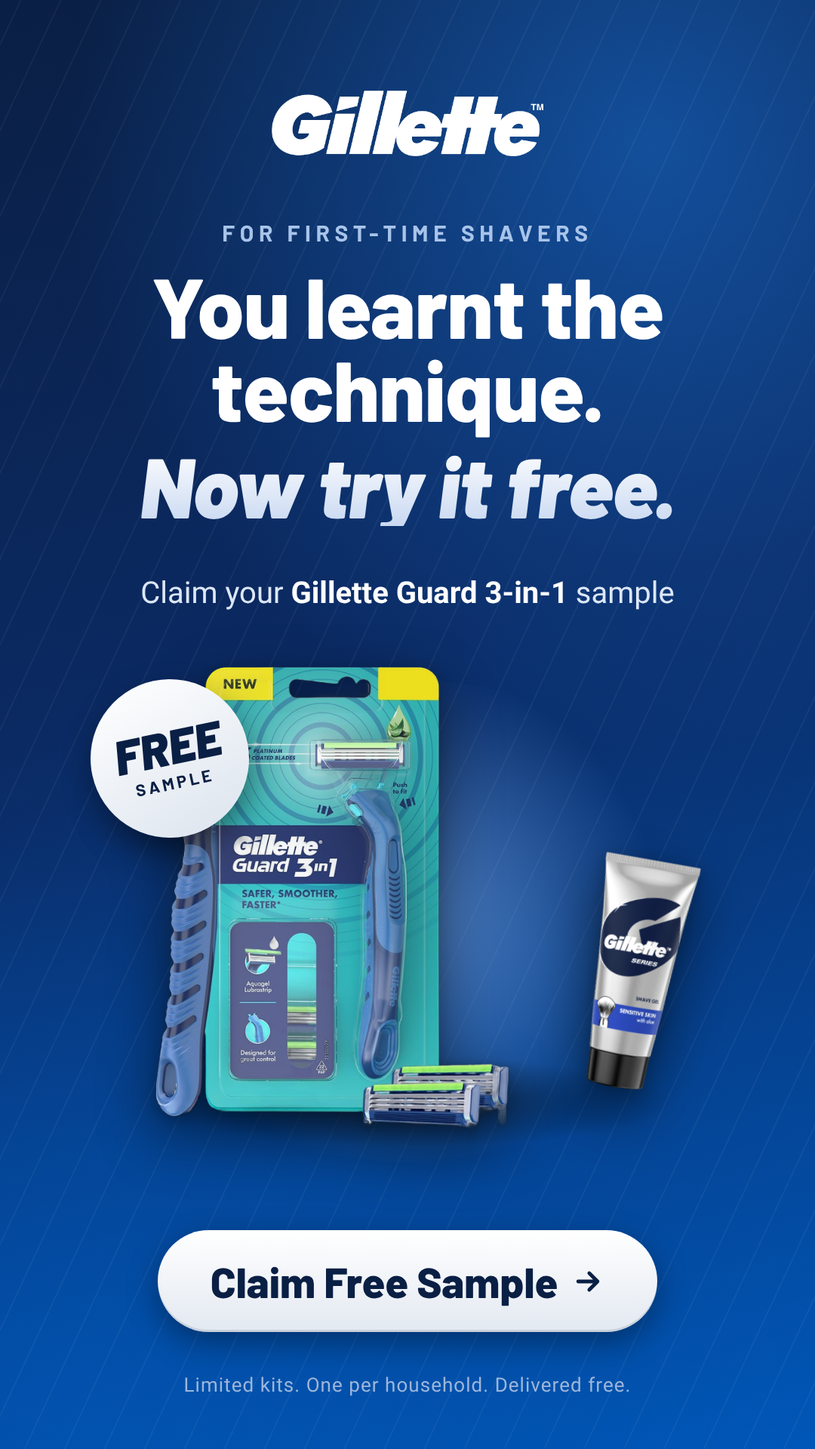
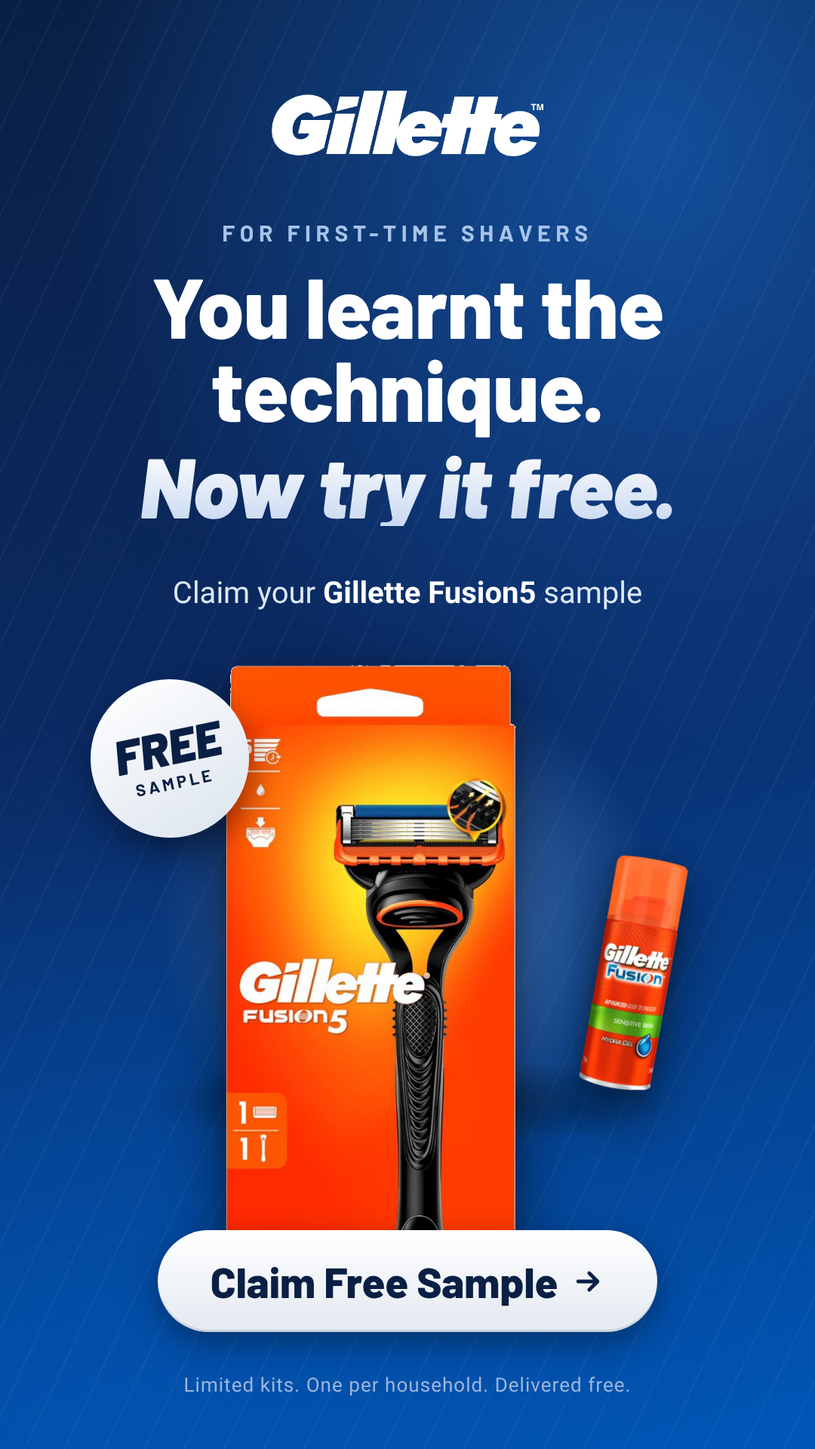
Customise for Gillette Fusion5 (shave only); drop media cost; sharper headline
- Product swapped from Guard 3-in-1 to Fusion5: new pack, razor, refill
  and Fusion Hydra Gel images; sample kit, ads, landing hero, UGC
  stickers, OG image and unboxing re-rendered; all copy, WhatsApp
  messages, scoring and dashboard labels updated.
- Removed the media cost per sample KPI and the Meta budget lines.
  Spend is Gillette's call; the closing KPI is now bad claims blocked.
- Page 1 headline: 'Teach the shave. Sample the learners.'

Claude-Session: https://claude.ai/code/session_01YXwEgpLYdmiWof5854h86q

Changed region(s): [[0.1833, 0.375, 0.825, 0.875], [0.7028, 0.5625, 0.8556, 0.75]]

diff --git a/index.html b/index.html
@@ -3,8 +3,8 @@
 <head>
 <meta charset="utf-8">
 <meta name="viewport" content="width=device-width, initial-scale=1">
-<title>Gillette x FreeStand: Educate to Sample</title>
-<meta name="description" content="Interactive demo: how FreeStand turns Gillette India's first-shave education reel into qualified sampling, feedback and UGC.">
+<title>Gillette Fusion5 x FreeStand: Educate to Sample</title>
+<meta name="description" content="Interactive demo: how FreeStand turns Gillette India's first-shave education reel into qualified Fusion5 sampling, feedback and UGC.">
 <meta property="og:type" content="website">
 <meta property="og:title" content="Gillette x FreeStand: Educate to Sample">
 <meta property="og:description" content="Educate > Engage > Qualify > Sample > Feedback > UGC. A click-through demo for Gillette India.">
@@ -426,7 +426,7 @@ svg{display:block}
 .intro .logos img.g{height:30px}.intro .logos img.f{height:22px}.intro .logos span{color:#7F93B5;font-family:'Barlow';font-weight:600}
 .in-grid{flex:1;display:grid;grid-template-columns:1fr 330px;gap:40px;align-items:center}
 .in-foot{font-size:12px;color:#7F93B5;text-align:center}
-.intro h1{font-family:'Barlow',sans-serif;font-weight:800;font-size:54px;line-height:1.02;letter-spacing:-.5px}
+.intro h1{font-family:'Barlow',sans-serif;font-weight:800;font-size:68px;line-height:1.02;letter-spacing:-.5px}
 .intro h1 em{font-style:italic;font-weight:900;color:#A9C4EA}
 .intro p{font-size:16px;line-height:1.55;color:#CFDBEE;margin-top:18px;max-width:640px}
 .jr{display:grid;grid-template-columns:repeat(5,1fr);gap:8px;margin-top:26px}
@@ -1037,7 +1037,7 @@ const N = {
   landing: 41500, otp: 32800, completed: 28900, approved: 10000, delivered: 9720,
   feedback: 6410, ratingAvg: 4.6, intentYes: 58, intentMaybe: 31, intentNo: 11,
   creators: 1240, ugcViews: 8640000, reelsTagging: 1080,
-  mediaSpend: 750000, conquest: 82, pincodes: 1860, avgDays: 2.8, success: 97.2,
+  conquest: 82, pincodes: 1860, avgDays: 2.8, success: 97.2,
 };
 const PERSONA = { name: 'Rohan Kulkarni', first: 'Rohan', age: 19, mobile: '+91 98226 34417', pin: '411007', area: 'Ganeshkhind, Pune', id: 'GLT-FS-28417' };
 
@@ -1162,7 +1162,7 @@ function feedApp() {
       <img class="pimg" src="${A('sample-ad-1x1')}" alt="">
       <div class="pcta" data-tap><span>Claim Free Sample</span>${I.chevR}</div>
       <div class="pact">${I.heart}${I.comment}${I.send}<span style="margin-left:auto">${I.bookmark}</span></div>
-      <div class="ptxt"><b>8,214 likes</b><br><b>gilletteindia</b> You learnt the technique. Now try it free. Guard 3-in-1 kits for first-time shavers.</div>
+      <div class="ptxt"><b>8,214 likes</b><br><b>gilletteindia</b> You learnt the technique. Now try it free. Gillette Fusion5 kits for first-time shavers.</div>
     </div>
     <div class="tabbar light">${I.home}${I.search}${I.plusSq}${I.reels}<img src="${A('rohan-avatar')}" alt=""></div>
     <div class="homebar dark"></div>
@@ -1260,15 +1260,15 @@ Expected: Thursday${tmL('4:32 PM')}<div class="ft">Gillette India · Powered by 
   [3, `<div class="dchip"><span>SUNDAY</span></div>`],
   [3, `<div class="m in"><div class="b">Hi Rohan, how was your first Gillette shave?${tmL('10:00 AM')}</div></div><div class="qr" data-tap><div class="sel">${I.reply}Loved it</div><div>${I.reply}It was okay</div><div>${I.reply}Had issues</div></div>`],
   [3, `<div class="m out"><div class="b">Loved it${tmL('10:03 AM', 1)}</div></div>`],
-  [4, `<div class="m in"><div class="b">Good to hear. How would you rate the Guard 3-in-1, from 1 to 5?${tmL('10:03 AM')}<div class="btns"><div>${I.list}Choose rating</div></div></div></div>`],
+  [4, `<div class="m in"><div class="b">Good to hear. How would you rate the Fusion5, from 1 to 5?${tmL('10:03 AM')}<div class="btns"><div>${I.list}Choose rating</div></div></div></div>`],
   [4, `<div class="m out"><div class="b">5 - Excellent${tmL('10:04 AM', 1)}</div></div>`],
-  [4, `<div class="m in"><div class="b">Will you buy the Guard 3-in-1?${tmL('10:04 AM')}</div></div><div class="qr" data-tap><div class="sel">${I.reply}Yes</div><div>${I.reply}Maybe</div><div>${I.reply}No</div></div>`],
+  [4, `<div class="m in"><div class="b">Will you buy the Fusion5?${tmL('10:04 AM')}</div></div><div class="qr" data-tap><div class="sel">${I.reply}Yes</div><div>${I.reply}Maybe</div><div>${I.reply}No</div></div>`],
   [4, `<div class="m out"><div class="b">Yes${tmL('10:04 AM', 1)}</div></div>`],
-  [5, `<div class="m in"><div class="b tpl"><div class="img"><img src="${A('guard-3in1-pack')}" alt="" style="background:#EAF2FB"></div>Your next Guard 3-in-1 is 10 minutes away. Use code FIRSTSHAVE15 for 15% off your first order on quick commerce.${tmL('10:05 AM')}<div class="btns"><div>${I.ext}Buy in 10 minutes</div></div></div></div>`],
+  [5, `<div class="m in"><div class="b tpl"><div class="img"><img src="${A('fusion5-pack')}" alt="" style="background:#EAF2FB"></div>Your next Fusion5 is 10 minutes away. Use code FIRSTSHAVE15 for 15% off your first order on quick commerce.${tmL('10:05 AM')}<div class="btns"><div>${I.ext}Buy in 10 minutes</div></div></div></div>`],
   [5, `<div class="m out"><div class="b"><div class="photo"><img src="${A('unboxing')}" alt=""></div>First shave done. Zero cuts.${tmL('10:09 AM', 1)}</div></div>`],
-  [6, `<div class="m in"><div class="b tpl"><div class="img"><img src="${A('guard-3in1-refill')}" alt="" style="background:#EAF2FB"></div>Share your first-shave story, get a free refill pack.
+  [6, `<div class="m in"><div class="b tpl"><div class="img"><img src="${A('fusion5-refill')}" alt="" style="background:#EAF2FB"></div>Share your first-shave story, get a free refill pack.
 
-Post a Reel about your first shave, tag @gilletteindia and use #FirstShave. We will send a Guard 3-in-1 refill pack to your door.${tmL('10:12 AM')}</div></div><div class="qr" data-tap><div class="sel">${I.reply}I'm in</div><div>${I.reply}Maybe later</div></div>`],
+Post a Reel about your first shave, tag @gilletteindia and use #FirstShave. We will send a Fusion5 refill pack to your door.${tmL('10:12 AM')}</div></div><div class="qr" data-tap><div class="sel">${I.reply}I'm in</div><div>${I.reply}Maybe later</div></div>`],
   [6, `<div class="m out"><div class="b">I'm in${tmL('10:13 AM', 1)}</div></div>`],
 ];
 function waApp(s) {
@@ -1370,11 +1370,11 @@ function panelStory(s, prev) {
     3: [I.gift, 'Ad 2: free sample, only for that audience', 'Campaign 2 · Thursday. A separate ad, targeted to the custom audience and nobody else.', s.s3 === 2 ? 'SHOWN TO ROHAN' : 'LAUNCHED', '#4CC17A'],
   }[st];
   let bottom = '';
-  if (st === 1) bottom = `${mcard('Campaign 1 · Gillette First Shave Education', ['ACTIVE', 'ok'], [['Goal', 'ThruPlay (video views)'], ['Budget', '₹1,50,000 / day · 14 days'], ['Who', 'Men 18-24 · India Tier 1 + 2'], ['Est. reach', '1 Cr - 1.4 Cr'], ['Interests', 'Grooming, fitness, college life, cricket']])}
+  if (st === 1) bottom = `${mcard('Campaign 1 · Gillette First Shave Education', ['ACTIVE', 'ok'], [['Goal', 'ThruPlay (video views)'], ['Format', 'Reel · 2:30 how-to video'], ['Who', 'Men 18-24 · India Tier 1 + 2'], ['Est. reach', '1 Cr - 1.4 Cr'], ['Interests', 'Grooming, fitness, college life, cricket']])}
       <div class="callout">${I.playO}<div><b>No offer in Ad 1. It only teaches.</b><span>Who watches and reacts is what we capture next.</span></div></div>`;
   if (st === 2) bottom = `<div class="sigs">${SIG.map(g => `<div class="card sg" id="sg-${g.k}"><div class="sg-i">${g.ic}</div><div><b>${g.t}</b><span>${inr(g.n)}</span></div><div class="tick">${I.check}</div><div class="sg-r"></div></div>`).join('')}</div>
       ${mcard('Custom audience · Gillette Engaged Learners - 30 days', ['UPDATING', 'blue'], [['Built from', 'Ad 1 viewers 75%+ · Instagram engagement'], ['Keeps people for', '30 days']])}`;
-  if (st === 3) bottom = `${mcard('Campaign 2 · Gillette First Shave Free Sample', ['ACTIVE', 'ok'], [['Audience', 'Engaged Learners ONLY'], ['Advantage+', 'Off (no expansion)'], ['Excludes', 'People who already claimed'], ['Budget', '₹50,000 / day · 15 days']])}
+  if (st === 3) bottom = `${mcard('Campaign 2 · Gillette First Shave Free Sample', ['ACTIVE', 'ok'], [['Audience', 'Engaged Learners ONLY'], ['Advantage+', 'Off (no expansion)'], ['Excludes', 'People who already claimed'], ['Placements', 'Feed + Reels · 1:1 and 9:16']])}
       <div class="callout">${I.target}<div><b>Only people who reacted to Ad 1 see Ad 2.</b><span>Zero spend on the ${lakh(N.passive)} who scrolled past.</span></div></div>`;
   return `${ph(head[0], '', head[1], head[2], head[3], head[4])}
     <div class="pb story">${beats(st)}${viz(s)}${bottom}</div>`;
@@ -1423,11 +1423,11 @@ function introScreen() {
     ['Shave It Forward', 'The data launches the next campaign'],
   ];
   return `<div class="intro">
-    <div class="ctop"><div class="eb">Gillette x FreeStand · Educate to Sample</div><div class="logos"><img class="g" src="${A('gillette-logo-white')}" alt=""><span>x</span><img class="f" src="${A('freestand-logo-white')}" alt=""></div></div>
+    <div class="ctop"><div class="eb">Gillette Fusion5 x FreeStand · Educate to Sample</div><div class="logos"><img class="g" src="${A('gillette-logo-white')}" alt=""><span>x</span><img class="f" src="${A('freestand-logo-white')}" alt=""></div></div>
     <div class="in-grid">
       <div>
-        <h1 class="fi">Teach first.<br><em>Sample only the people who learnt.</em></h1>
-        <p class="fi" style="animation-delay:.15s">Two separate ads. Ad 1 teaches young men how to shave. Meta remembers everyone who reacts. Days later, Ad 2 offers a free sample to that audience only. FreeStand then verifies, ships, collects feedback and turns the data into the next campaign.</p>
+        <h1 class="fi">Teach the shave.<br><em>Sample the learners.</em></h1>
+        <p class="fi" style="animation-delay:.15s"><b style="color:#fff">Gillette Fusion5 · shave only.</b> Two separate ads. Ad 1 teaches young men how to shave. Meta remembers everyone who reacts. Days later, Ad 2 offers a free Fusion5 to that audience only. FreeStand then verifies, ships, collects feedback and turns the data into the next campaign.</p>
         <div class="jr">${J.map(([t, d], i) => `<div class="fi" style="animation-delay:${.3 + i * .07}s"><span class="jn">${i + 1}</span><b>${t}</b><small>${d}</small></div>`).join('')}</div>
       </div>
       <div class="rohan-card fi" style="animation-delay:.5s">
@@ -1451,7 +1451,7 @@ const ELOG = [
   { e: 2, pts: 10, t: 'Reachable on WhatsApp', src: 'Delivery updates + feedback can reach him' },
   { e: 3, pts: 15, t: 'Shaves 2-3x/week = high usage', src: 'Q1 · How often do you shave?' },
   { e: 4, pts: 30, t: 'Trimmer user = conquest', src: 'Q2 · Non-Gillette user, priority queue' },
-  { e: 5, pts: 5, t: 'Worried about cuts = Guard fit', src: 'Q3 · Safety comb message in kit insert' },
+  { e: 5, pts: 5, t: 'Worried about cuts = Fusion5 fit', src: 'Q3 · 5-blade comfort message in kit insert' },
   { e: 6, pts: 5, t: 'Reel recall confirmed', src: 'Q4 · "Yes, learnt a lot"' },
   { e: 7, chk: 1, t: 'Pincode 411007 serviceable', src: 'Geo-coded: Ganeshkhind, Pune · 3-day lane' },
   { e: 8, chk: 1, t: 'One sample per household', src: 'Address fingerprint is new' },
@@ -1530,14 +1530,14 @@ function afterDelivery(root, s) {
 function panelFeedback(s, prev) {
   const fresh = !prev || prev.panel !== 'feedback';
   const f = s.f;
-  const words = [['smooth', 30], ['no cuts', 27], ['easy', 24], ['comfortable', 19], ['safety comb', 16], ['quick', 15], ['gentle', 14], ['close shave', 13], ['beginner-friendly', 12], ['no irritation', 12]];
+  const words = [['smooth', 30], ['no cuts', 27], ['easy', 24], ['comfortable', 19], ['5 blades', 16], ['quick', 15], ['gentle', 14], ['close shave', 13], ['beginner-friendly', 12], ['no irritation', 12]];
   const kp = (v, fmt, label, hl, d, extra = '') => `<div class="card kpi ${fresh ? 'fi' : ''} ${hl ? 'hl' : ''}" style="animation-delay:${d}s"><div class="v" style="display:flex;align-items:center;gap:8px"><span data-count="${v}" ${fmt ? `data-fmt="${fmt}"` : ''} ${fresh ? '' : `data-from="${v}"`}>0</span>${extra}</div><div class="k">${label}</div></div>`;
   return `${ph(I.msg, '', 'Feedback loop on WhatsApp', 'Auto-triggered 3 days after delivery · 3 taps, no forms', 'LIVE')}
   <div class="pb" style="display:flex;flex-direction:column;gap:12px">
     <div style="display:grid;grid-template-columns:1fr 1fr;gap:10px">
       ${kp(66, 'pct', `Response rate · ${inr(N.feedback)} of ${inr(N.delivered)}`, f === 1, 0)}
       ${kp(4.6, 'dec1', 'Average rating', f === 2, .08, starRow(5))}
-      ${kp(58, 'pct', 'Will buy Guard 3-in-1', f === 2, .16)}
+      ${kp(58, 'pct', 'Will buy Fusion5', f === 2, .16)}
       ${kp(2140, '', 'Quick-commerce link taps', f === 3, .24)}
     </div>
     <div class="card ${fresh ? 'fi' : ''} ${f === 1 ? 'hl' : ''}" style="padding:12px 14px;animation-delay:.2s"><div class="lbl" style="margin-bottom:8px">First-shave reaction</div>
@@ -1655,9 +1655,9 @@ function closingScreen() {
     <div class="lside">
       <div class="eb" style="color:#7F93B5">Loop 1 results</div>
       <div class="ckpi" style="margin-top:12px">
-        <div class="fi" style="animation-delay:.5s"><b class="cv">₹<span data-count="${N.mediaSpend / N.approved}">0</span></b><span class="cl">Media cost per qualified sample</span><span class="cs">₹7.5L sample-ad media / ${inr(N.approved)} approved</span></div>
+        <div class="fi" style="animation-delay:.5s"><b class="cv"><span data-count="3412">0</span></b><span class="cl">Bad claims blocked</span><span class="cs">Duplicates, under-18, out-of-area</span></div>
         <div class="fi" style="animation-delay:.6s"><b class="cv"><span data-count="${N.conquest}" data-fmt="pct">0</span></b><span class="cl">Conquest share</span><span class="cs">Kits to non-Gillette users</span></div>
-        <div class="fi" style="animation-delay:.7s"><b class="cv"><span data-count="${N.intentYes}" data-fmt="pct">0</span></b><span class="cl">Purchase intent</span><span class="cs">Will buy Guard 3-in-1</span></div>
+        <div class="fi" style="animation-delay:.7s"><b class="cv"><span data-count="${N.intentYes}" data-fmt="pct">0</span></b><span class="cl">Purchase intent</span><span class="cs">Will buy Fusion5</span></div>
         <div class="fi" style="animation-delay:.8s"><b class="cv"><span data-count="${N.creators}">0</span></b><span class="cl">UGC pieces</span><span class="cs">${lakh(N.ugcViews)} organic views</span></div>
       </div>
       <div class="keeps fi" style="animation-delay:1s">
@@ -1710,7 +1710,7 @@ function dashOverview() {
     <div class="dcard"><div class="dch">First-party data collected <span class="dpill">${inr(N.completed)} profiles · 14 fields</span></div>
       <div class="dfields">${fields.map(([f, src, p], i) => `<div><span class="df">${f}</span><span class="ds">${src}</span><span class="dbar2"><i data-w="${p}%" style="background:${p === 100 ? DC.blue : p > 50 ? DC.sky : DC.pale};transition-delay:${i * .04}s"></i></span><b>${p}%</b></div>`).join('')}</div></div>
     <div class="dcard"><div class="dch">Key insights <span class="dpill purple">32 analyses</span></div>
-      ${['Trimmer users show the highest purchase intent after sampling: 64%', '75%+ viewers of Ad 1 claim at 2.3x the rate of people who only followed', '"Cuts and nicks" worriers rate the Guard 3-in-1 4.8 / 5: lead with the safety comb'].map(t => `<div class="dins">${I.check}<span>${t}</span></div>`).join('')}
+      ${['Trimmer users show the highest purchase intent after sampling: 64%', '75%+ viewers of Ad 1 claim at 2.3x the rate of people who only followed', '"Cuts and nicks" worriers rate the Fusion5 4.8 / 5: lead with 5-blade comfort'].map(t => `<div class="dins">${I.check}<span>${t}</span></div>`).join('')}
       <div class="dsub">Top performers <small>(purchase intent)</small></div>
       ${[['Trimmer only + worried about cuts', '71.2%'], ['Trimmer only + shaves 2-3x/week', '66.8%'], ['Barber + learnt a lot from reel', '61.4%']].map(([l, v]) => `<div class="dperf up"><span>${l}</span><b>${v}</b></div>`).join('')}
       <div class="dsub">Low performers</div>
@@ -1763,7 +1763,7 @@ function dashViz() {
     ['Q3) Biggest shaving worry?', [['Cuts and nicks', 54, DC.blue], ['Irritation', 31, DC.sky], ['Takes too long', 15, DC.pale]]],
     ['Q4) Did our shaving tips reel help?', [['Yes, learnt a lot', 68, DC.navy], ['Somewhat', 24, DC.sky], ["Didn't watch", 8, DC.grey]]],
     ['How was your first Gillette shave?', [['Loved it', 71, DC.green], ['It was okay', 22, DC.pale], ['Had issues', 7, DC.coral]]],
-    ['Will you buy Guard 3-in-1?', [['Yes', 58, DC.navy], ['Maybe', 31, DC.sky], ['No', 11, DC.grey]]],
+    ['Will you buy Fusion5?', [['Yes', 58, DC.navy], ['Maybe', 31, DC.sky], ['No', 11, DC.grey]]],
   ];
   return `<div class="dviz">${cards.map(([t, sl], i) => `<div class="dcard fi" style="animation-delay:${i * .07}s"><div class="dch" style="font-size:12.5px">${t}</div>
     <div class="dpc">${dPie(sl.map(([l, p, c]) => ({ l, p, c })), 150)}<div class="dlegs">${sl.map(([l, p, c]) => `<div><i style="background:${c}"></i>${l} <b>${p}%</b></div>`).join('')}</div></div></div>`).join('')}</div>`;
@@ -1771,10 +1771,10 @@ function dashViz() {
 function dashStats() {
   const rows = [['Trimmer only', 64.1, 3302], ['Barber', 53.8, 1346], ['Another razor brand', 41.2, 1154], ['Gillette', 56.0, 608]];
   return `<div class="dsubtabs">${[['2-Way Analysis', 1], ['3-Way Analysis'], ['Segmentation'], ['Barrier Analysis', 0, 'Coming soon'], ['Regression', 0, 'Coming soon']].map(([l, on, soon]) => `<span class="${on ? 'on' : ''}">${l}${soon ? `<em>${soon}</em>` : ''}</span>`).join('')}</div>
-  <div class="dinfo"><b>i</b><div><strong>2-Way Interaction Analysis</strong><span>How two answers together affect purchase intent. Here: does what you use today change whether you will buy Guard 3-in-1?</span></div></div>
+  <div class="dinfo"><b>i</b><div><strong>2-Way Interaction Analysis</strong><span>How two answers together affect purchase intent. Here: does what you use today change whether you will buy Fusion5?</span></div></div>
   <div class="dg2" style="grid-template-columns:1fr 1fr">
     <div class="dcard"><div class="dch">Select variables</div>
-      <div class="dsel"><div><small>Variable 1 (rows)</small><span>What do you use today?</span></div><div><small>Variable 2 (columns)</small><span>Will you buy Guard 3-in-1?</span></div></div>
+      <div class="dsel"><div><small>Variable 1 (rows)</small><span>What do you use today?</span></div><div><small>Variable 2 (columns)</small><span>Will you buy Fusion5?</span></div></div>
       <div class="dstats"><div><small>Sample size</small><b>${inr(N.feedback)}</b></div><div><small>Overall intent</small><b>58.0%</b></div><div><small>Chi-square</small><b>p &lt; 0.001</b></div><div><small>Cramér's V</small><b>0.18</b></div></div>
       <div class="dsub" style="margin-top:12px">Purchase intent by current routine</div>
       ${rows.map(([l, v, n], i) => `<div class="dbarrow"><span>${l} <small>n=${inr(n)}</small></span><span class="dbar2"><i data-w="${v}%" style="background:${i === 0 ? DC.blue : DC.sky};transition-delay:${i * .1}s"></i></span><b>${v.toFixed(1)}%</b></div>`).join('')}
@@ -1785,7 +1785,7 @@ function dashStats() {
     </div>
     <div class="dcard"><div class="dch">Key insights</div>
       <div class="dtext"><b>Analysis summary</b>Trimmer users are the most convertible group: 64% plan to buy after one free kit, 10 points above the next segment. Their reel recall is also highest (74% "learnt a lot").
-      <b>Recommendations</b>1. Seed the next lookalike from trimmer-user promoters.<br>2. Lead creative with the safety comb for the "cuts and nicks" segment.<br>3. Give "Another razor brand" users a comparison message, not a tips reel.</div>
+      <b>Recommendations</b>1. Seed the next lookalike from trimmer-user promoters.<br>2. Lead creative with 5-blade comfort for the "cuts and nicks" segment.<br>3. Give "Another razor brand" users a comparison message, not a tips reel.</div>
       <div class="dtests"><div><b>Chi-square test</b><span>χ² = 212.4 · df 3</span><small>Answers are not independent</small></div><div><b>Odds ratio</b><span>1.84 (trimmer vs rest)</span><small>95% CI 1.66 - 2.04</small></div></div>
       <div class="dnext">${I.sparkle}<div><small>Recommended next step</small><b>Build a lookalike from 3,302 trimmer-user promoters</b><span>FreeStand can turn this into a new campaign with one click.</span></div></div>
     </div>
@@ -2030,7 +2030,7 @@ window.addEventListener('resize', fit);
 
 /* ═══════════════ loader: preload, then start ═══════════════ */
 const PRELOAD = ['sample-ad-9x16', 'sample-ad-1x1', 'landing-hero', 'reel-cover', 'sample-kit', 'delivery', 'unboxing', 'ugc-1', 'ugc-2', 'ugc-3', 'ugc-4', 'ugc-5',
-  'guard-3in1-pack', 'guard-3in1-refill', 'rohan-avatar', 'gillette-ig-dp', 'gillette-logo-white', 'freestand-logo', 'freestand-logo-white',
+  'fusion5-pack', 'fusion5-refill', 'rohan-avatar', 'gillette-ig-dp', 'gillette-logo-white', 'freestand-logo', 'freestand-logo-white',
   'ugc-photo-1', 'avatar-1', 'avatar-2', 'avatar-3', 'avatar-4', 'avatar-5', 'avatar-6'].map(A);
 function boot() {
   let done = 0;

diff --git a/assets/src/ugc.html b/assets/src/ugc.html
@@ -34,7 +34,7 @@
   <div class="shade"></div>
   <div class="topbar"><span>Reels</span>
     <svg viewBox="0 0 24 24" fill="none" stroke="#fff" stroke-width="2" stroke-linecap="round" stroke-linejoin="round"><path d="M14.5 4h-5L7 7H4a2 2 0 0 0-2 2v9a2 2 0 0 0 2 2h16a2 2 0 0 0 2-2V9a2 2 0 0 0-2-2h-3l-2.5-3z"/><circle cx="12" cy="13" r="3"/></svg></div>
-  <div class="sticker"><img src="../guard-3in1-pack.png" alt=""><div>Guard 3-in-1</div></div>
+  <div class="sticker"><img src="../fusion5-pack.png" alt=""><div>Fusion5</div></div>
   <div class="chiptxt" id="chip"></div>
   <div class="rail">
     <div class="i liked"><svg viewBox="0 0 24 24" fill="none" stroke="#fff" stroke-width="2"><path d="M20.8 4.6a5.5 5.5 0 0 0-7.8 0L12 5.7l-1-1.1a5.5 5.5 0 0 0-7.8 7.8l1 1.1L12 21l7.8-7.5 1-1.1a5.5 5.5 0 0 0 0-7.8z"/></svg><span id="likes"></span></div>
@@ -53,7 +53,7 @@
 <script>
 const POSTS = {
   1: { photo: '../ugc-photo-1.png', avatar: '../rohan-avatar.png', handle: 'rohan.k_19', chip: 'first shave: done',
-       cap: 'Learnt from <span class="tag">@gilletteindia</span>\'s reel. First clean shave, zero cuts. <span class="h">#FirstShave #GilletteGuard3in1</span>',
+       cap: 'Learnt from <span class="tag">@gilletteindia</span>\'s reel. First clean shave, zero cuts. <span class="h">#FirstShave #GilletteFusion5</span>',
        likes: '12.4K', comments: '318', shares: '1,204', tune: 'rohan.k_19 · Original audio' },
   2: { photo: '../ugc-photo-2.png', avatar: '../ugc-photo-2.png', handle: 'kabir.on.road', chip: 'tip 2 actually works',
        cap: 'Followed the 3 tips from <span class="tag">@gilletteindia</span>. Light strokes, no irritation. <span class="h">#FirstShave</span>',
@@ -62,7 +62,7 @@ const POSTS = {
        cap: 'Prep, lather, short strokes. The <span class="tag">@gilletteindia</span> reel made it look easy, and it was. <span class="h">#FirstShave</span>',
        likes: '5,731', comments: '142', shares: '389', tune: 'arjun.frames · Original audio' },
   4: { photo: '../ugc-photo-4.png', avatar: '../ugc-photo-4.png', handle: 'dev.mehra', chip: 'clean jawline, zero cuts',
-       cap: 'From trimmer to razor in one weekend. Free kit from <span class="tag">@gilletteindia</span>. <span class="h">#FirstShave #GilletteGuard3in1</span>',
+       cap: 'From trimmer to razor in one weekend. Free kit from <span class="tag">@gilletteindia</span>. <span class="h">#FirstShave #GilletteFusion5</span>',
        likes: '19.2K', comments: '401', shares: '1,866', tune: 'dev.mehra · Original audio' },
   5: { photo: '../ugc-photo-5.png', avatar: '../ugc-photo-5.png', handle: 'ishaan.plays', chip: 'match-day clean shave',
        cap: 'Clean shave before the game. Thanks <span class="tag">@gilletteindia</span> for the kit. <span class="h">#FirstShave</span>',

diff --git a/assets/src/landing-hero.html b/assets/src/landing-hero.html
@@ -23,11 +23,11 @@
   <div class="top"><img src="../gillette-logo-white.png" alt="Gillette"><span class="pill">FIRST SHAVE KIT</span></div>
   <div class="headline display">Your first smooth shave <em>is on us</em></div>
   <div class="glow"></div>
-  <img class="pack shadow-prod" src="../guard-3in1-pack.png" alt="">
-  <img class="gel shadow-prod" src="../gillette-gel.png" alt="">
+  <img class="pack shadow-prod" src="../fusion5-pack.png" alt="">
+  <img class="gel shadow-prod" src="../fusion-gel.png" alt="">
   <div class="chips">
-    <span class="chip"><svg viewBox="0 0 24 24" fill="none" stroke="currentColor" stroke-width="2.4" stroke-linecap="round" stroke-linejoin="round"><path d="M20 6 9 17l-5-5"/></svg>Guard 3-in-1 razor</span>
-    <span class="chip"><svg viewBox="0 0 24 24" fill="none" stroke="currentColor" stroke-width="2.4" stroke-linecap="round" stroke-linejoin="round"><path d="M20 6 9 17l-5-5"/></svg>Mini shave gel</span>
+    <span class="chip"><svg viewBox="0 0 24 24" fill="none" stroke="currentColor" stroke-width="2.4" stroke-linecap="round" stroke-linejoin="round"><path d="M20 6 9 17l-5-5"/></svg>Fusion5 razor</span>
+    <span class="chip"><svg viewBox="0 0 24 24" fill="none" stroke="currentColor" stroke-width="2.4" stroke-linecap="round" stroke-linejoin="round"><path d="M20 6 9 17l-5-5"/></svg>Fusion Hydra Gel</span>
     <span class="chip"><svg viewBox="0 0 24 24" fill="none" stroke="currentColor" stroke-width="2.4" stroke-linecap="round" stroke-linejoin="round"><path d="M20 6 9 17l-5-5"/></svg>Free delivery</span>
   </div>
   <div class="powered">Powered by <img src="../freestand-logo-white.png" alt="FreeStand"></div>

diff --git a/assets/src/sample-ad-1x1.html b/assets/src/sample-ad-1x1.html
@@ -28,13 +28,13 @@
   <div class="logo"><img src="../gillette-logo-white.png" alt="Gillette"></div>
   <div class="eyebrow">For first-time shavers</div>
   <div class="headline display">You learnt the technique.<em>Now try it free.</em></div>
-  <div class="sub">Claim your <b>Gillette Guard 3-in-1</b> sample</div>
+  <div class="sub">Claim your <b>Gillette Fusion5</b> sample</div>
   <div class="ctawrap"><span class="cta">Claim Free Sample
     <svg viewBox="0 0 24 24" fill="none" stroke="currentColor" stroke-width="2.6" stroke-linecap="round" stroke-linejoin="round"><path d="M5 12h14M13 6l6 6-6 6"/></svg></span></div>
   <div class="fine">Limited kits. One per household. Delivered free.</div>
   <div class="glow"></div>
-  <img class="pack shadow-prod" src="../guard-3in1-pack.png" alt="">
-  <img class="gel shadow-prod" src="../gillette-gel.png" alt="">
+  <img class="pack shadow-prod" src="../fusion5-pack.png" alt="">
+  <img class="gel shadow-prod" src="../fusion-gel.png" alt="">
   <div class="free"><div class="a">FREE</div><div class="b">SAMPLE</div></div>
 </div>
 </body></html>

diff --git a/assets/src/sample-ad-9x16.html b/assets/src/sample-ad-9x16.html
@@ -31,12 +31,12 @@
   <div class="logo"><img src="../gillette-logo-white.png" alt="Gillette"></div>
   <div class="eyebrow">For first-time shavers</div>
   <div class="headline display">You learnt the technique.<em>Now try it free.</em></div>
-  <div class="sub">Claim your <b>Gillette Guard 3-in-1</b> sample</div>
+  <div class="sub">Claim your <b>Gillette Fusion5</b> sample</div>
   <div class="stage">
     <div class="glow"></div>
     <div class="disc"></div>
-    <img class="pack shadow-prod" src="../guard-3in1-pack.png" alt="">
-    <img class="gel shadow-prod" src="../gillette-gel.png" alt="">
+    <img class="pack shadow-prod" src="../fusion5-pack.png" alt="">
+    <img class="gel shadow-prod" src="../fusion-gel.png" alt="">
     <div class="free"><div class="a">FREE</div><div class="b">SAMPLE</div></div>
   </div>
   <div class="ctawrap"><span class="cta">Claim Free Sample

diff --git a/assets/src/sample-kit.html b/assets/src/sample-kit.html
@@ -67,8 +67,8 @@
     <div class="box">
       <div class="cavity">
         <div class="tissue"></div>
-        <img class="pack shadow-prod" src="../guard-3in1-pack.png" alt="">
-        <img class="gel shadow-prod" src="../gillette-gel.png" alt="">
+        <img class="pack shadow-prod" src="../fusion5-pack.png" alt="">
+        <img class="gel shadow-prod" src="../fusion-gel.png" alt="">
       </div>
       <div class="front"><img src="../gillette-logo-white.png" alt=""></div>
     </div>

diff --git a/assets/src/og-image.html b/assets/src/og-image.html
@@ -23,6 +23,6 @@
   <div class="title display">Educate<em>to Sample</em></div>
   <div class="steps"><span>EDUCATE</span><span>ENGAGE</span><span>QUALIFY</span><span>SAMPLE</span><span>FEEDBACK</span><span>UGC</span></div>
   <div class="glow"></div>
-  <img class="pack shadow-prod" src="../guard-3in1-pack.png" alt="">
+  <img class="pack shadow-prod" src="../fusion5-pack.png" alt="">
 </div>
 </body></html>

diff --git a/assets/CREDITS.md b/assets/CREDITS.md
@@ -17,13 +17,13 @@ Pitch-demo use only. Brand marks and product photography belong to their owners 
 | `freestand-logo.svg`, `freestand-logo.png`, `freestand-logo-white.png` | freestand.in footer wordmark: https://framerusercontent.com/images/hYY5CwrTYzubsPJ4sILBcdh4w.svg (recoloured navy #0E2A6B / white) | FreeStand's own mark |
 | `freestand-mark.png` | freestand.in header gift icon: https://framerusercontent.com/images/0J9Nzq9QZNhvI3xuWThOLe8w.png | FreeStand's own mark |
 
-## Product images
+## Product images (Gillette Fusion5, shave only)
 | File | Source | Notes |
 |---|---|---|
-| `guard-3in1-pack.png` | Amazon.in listing "Gillette Guard 3in1 Shaving Razor, 2 Cartridges + 1 Razor" (ASIN B0BWDNPP5V), image https://m.media-amazon.com/images/I/61wg-+QKQeL.jpg | White background removed with rembg (isnet-general-use), 1000x1000. P&G product photography. |
-| `guard-3in1-refill.png` | Amazon.in listing "Gillette Guard 3in1 Shaving Blades, 4 cartridges" (ASIN B0GJDXF2NM), image https://m.media-amazon.com/images/I/71XM7QHE0GL.jpg | Background removed. Used as the UGC reward (free refill pack). |
-| `guard-3in1-razor.png` | gillette.co.in Guard 3 product page: https://images.ctfassets.net/7tfi3razjgvb/.../Gillette-Guard-3-Shaving-Razor.png | Official transparent render. This is the Guard 3 razor (black/blue handle); the Guard 3in1 razor has a blue/teal handle. No standalone 3in1 razor render was available. |
-| `gillette-gel.png` | gillette.co.in, Gillette Series Sensitive Skin Shave Gel (80 g) page: https://www.gillette.co.in/en-in/products/shaving-gel-cream-and-aftershave/sensitive-skin-tube-shave-gel | Official transparent render. |
+| `fusion5-pack.png` | Flipkart listing "Gillette Fusion5 Razor for Men" (current India box), https://rukminim2.flixcart.com/image/1000/1000/xif0q/shaving-razor/g/q/h/fusion5-razor-for-men-1-gillette-original-imahr35xpn6jpyyt.jpeg | White background removed (flood fill), 1000x1000. P&G product photography. |
+| `fusion5-razor.png` | Flipkart listing "Gillette Fusion 5 Razor" blister shot, https://rukminim2.flixcart.com/image/1000/1000/xif0q/shaving-razor/s/g/j/fusion-5-razor-1-gillette-original-imah7rmsyvvx7zba.jpeg | Standalone razor cropped from the blister image, background removed. |
+| `fusion5-refill.png` | gillette.co.in Fusion manual razor blades page (4-count render) | Official transparent render. Older "Fusion" pack design; used as the UGC refill reward. |
+| `fusion-gel.png` | gillette.co.in Fusion Hydra Gel Sensitive Skin (75 ml) page | Official transparent render. |
 
 ## Photos (Pexels License)
 | File | Photo | Photographer |

diff --git a/README.md b/README.md
@@ -1,6 +1,6 @@
 # Gillette x FreeStand: Educate to Sample
 
-A click-through pitch demo for Gillette India (P&G). It follows Rohan, 19, a college student in Pune, from a Gillette first-shave education reel to a qualified free sample, WhatsApp feedback and a UGC Reel.
+A click-through pitch demo for Gillette India (P&G). It follows Rohan, 19, a college student in Pune, from a Gillette first-shave education reel to a qualified free Gillette Fusion5 sample (shave-only use case), WhatsApp feedback and a UGC Reel.
 
 The phone on the left shows what Rohan sees. The middle panel shows what Meta and FreeStand are doing at that moment. The right column is the first-party profile FreeStand builds, which stays anonymous until Rohan claims. Step 8 is the FreeStand Campaign Analytics dashboard (overview + data collected, live analytics, data visualisation, statistical analysis). Step 9 ("Shave It Forward") is the next campaign built from the data, and the last screen shows the whole engine as a loop.
 
